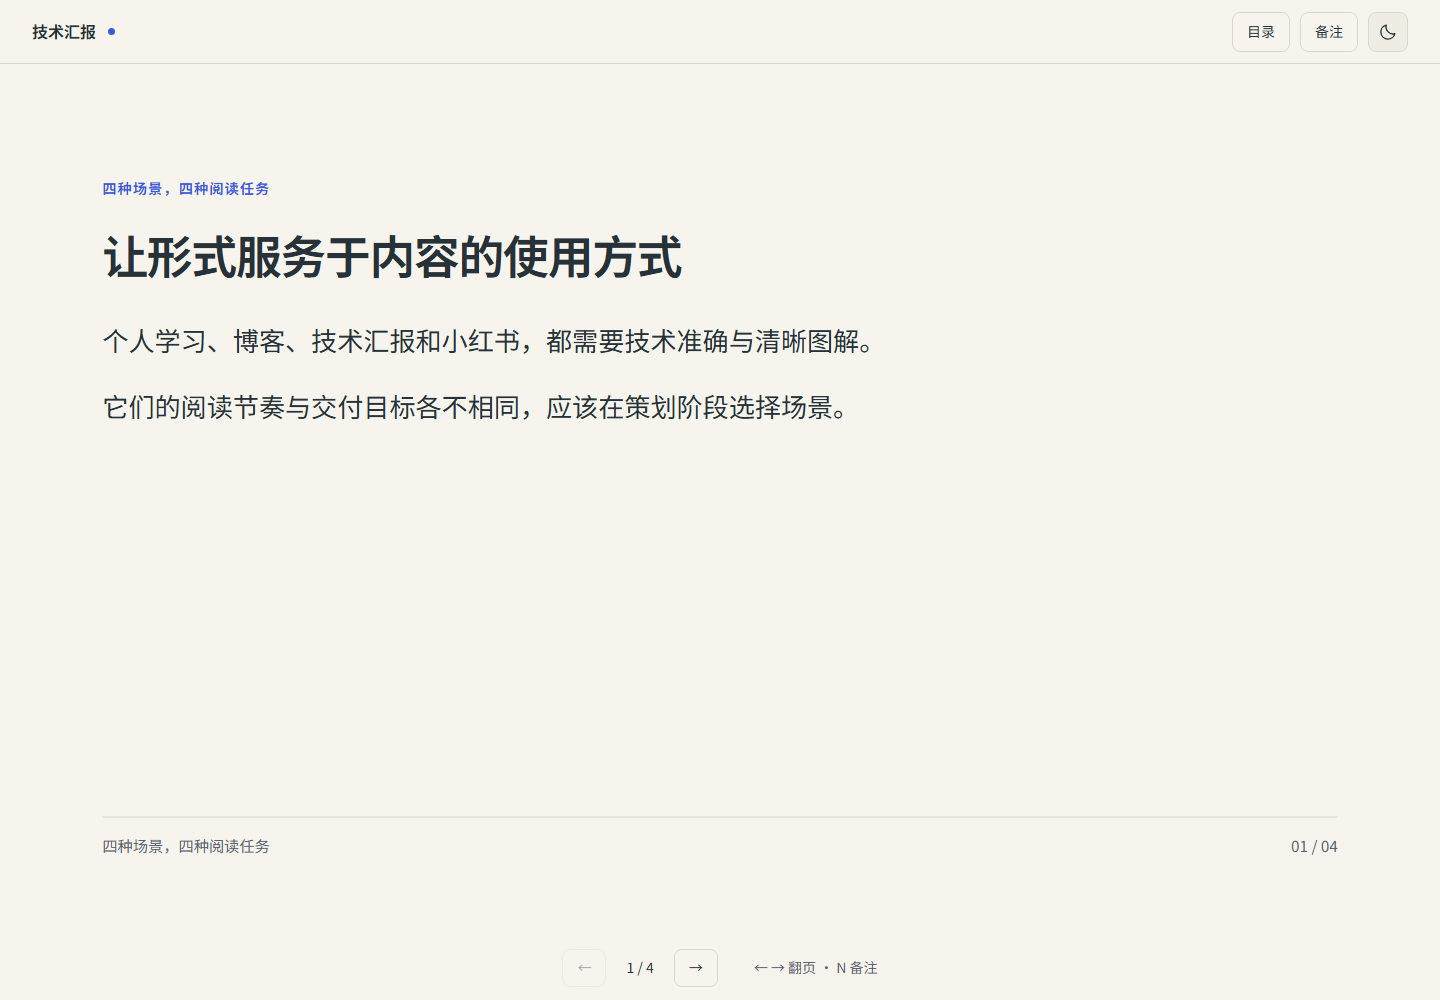
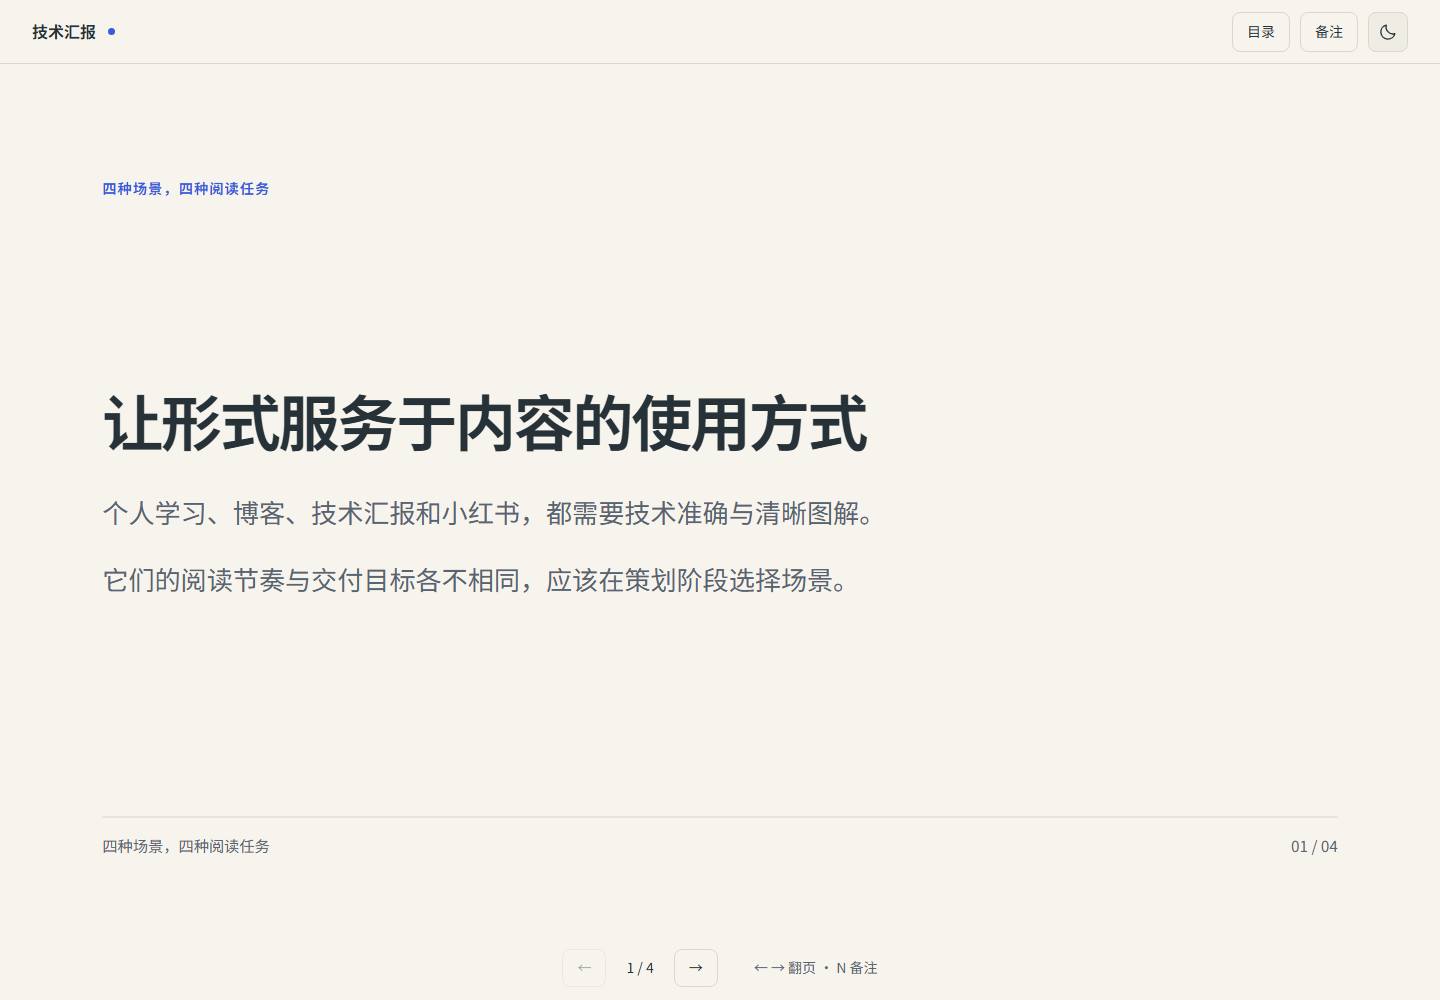
Give report covers a distinct optional visual hierarchy

diff --git a/assets/content/content.css b/assets/content/content.css
@@ -212,6 +212,9 @@ hr { border: 0; border-top: 1px solid var(--line); margin: 44px 0; }
 .slide-body h3 { font-size: 28px; margin: 24px 0 16px; }
 .slide-body h1, .slide-body h2 { font-weight: 650; }
 .slide-body h3 { font-weight: 600; }
+.slide-cover .slide-body { display: flex; flex-direction: column; justify-content: center; }
+.slide-cover .slide-body > :is(h1,h2) { font-size: 56px; line-height: 1.2; max-width: 16em; letter-spacing: -.035em; text-wrap: balance; }
+.slide-cover .slide-body > p { max-width: 38em; color: var(--muted); }
 .slide-body p { margin: 0 0 22px; }
 .slide-body li { margin-bottom: 12px; }
 .slide-body pre { margin: 22px 0; padding: 18px 22px; font-size: 20px; white-space: pre-wrap; overflow: visible; }

diff --git a/scripts/build_content.py b/scripts/build_content.py
@@ -129,7 +129,8 @@ def build_content(source, *, scene='learning', output, title=None, theme='light'
             for index, page in enumerate(pages, 1):
                 note = re.search(r'<!--\s*notes:\s*(.*?)-->', page, re.S | re.I)
                 page = re.sub(r'<!--\s*notes:.*?-->', '', page, flags=re.S | re.I)
-                slides.append(f'<section class="slide" data-export-page data-notes="{escape(note.group(1).strip() if note else "", quote=True)}" id="slide-{index}">'
+                classes = 'slide slide-cover' if index == 1 and metadata.get('cover') is True else 'slide'
+                slides.append(f'<section class="{classes}" data-export-page data-notes="{escape(note.group(1).strip() if note else "", quote=True)}" id="slide-{index}">'
                               f'<p class="eyebrow">{escape(title)}</p><div class="slide-body">{convert(page)}</div>'
                               f'<footer class="slide-footer"><span>{escape(title)}</span><span>{index:02d} / {len(pages):02d}</span></footer></section>')
             body = ''.join(slides)

diff --git a/.codex/html-goal-handoff.md b/.codex/html-goal-handoff.md
@@ -17,6 +17,7 @@
 - 已新编写`demos/content/softmax-longform/main.md`作为完整学习文档：7章、4表、2代码段、1流程图。标准库代码已执行；NumPy片段按官方API核对，未安装或运行NumPy。
 - Hyperball成品：`output/Hyperball-阅读版/index.html`。对应run为`output/_work/Hyperball-阅读版/20261002-232954-821907-blog-html/`，工作稿`work/Hyperball博客-图文版.md`。
 - Softmax成品：`output/Softmax-学习/index.html`。对应run为`output/_work/Softmax-学习/20261003-030343-927225-learning-html/`，工作稿`work/main.md`。
+- 流程汇报成品：`output/流程优化-汇报/index.html`。对应run是`output/_work/流程优化/20261002-review/final/report/`，不能由短交付名猜工作目录。其旧绝对路径已按重命名项目迁移，快照哈希核对一致。
 - 两篇技术内容与快照未被视觉迭代改写。各轮`delivery.md`及`work/iterations/`保存依据和对照；发布器保留上一版短路径交付。以run.json、QA哈希和当前Git为权威，不手改QA通过状态。
 
 ## 已有实现
@@ -28,6 +29,7 @@
 - 公式外部间距在长文中采用1.1em，随字号变化，内部高度及8px上下安全留白保留。两篇明暗正文42屏独立复核后，只采纳了有对照依据的公式节奏调整。
 - 短行内公式按整体换行，长表达式限定在容器宽度内并保留KaTeX断行。24px下真实短表达式已由两行变为一行，50项求和仍能多行重排；字号定位与根号可见性回归通过。
 - 图像弹窗保留原图注、已渲染公式与链接；克隆ID和引用去重，支持带引号URL引用；按宽高适合窗口，放大后可用方向键滚动，关闭恢复原位置/焦点。报告弹窗保留当前页。
+- 报告可显式设置`cover: true`，仅第一页使用56px大标题和居中的简短内容组；默认仍是正文页。四页明暗、缩小窗口、原生缩放、导航/备注/PNG与过量封面拒绝均已检查。
 - 本轮图注与窗口适配的依据位于两篇run的`work/iterations/20261003-viewer-captions/`。已复现原图注丢失、固定尺寸竖图900px被720px窗口裁切，并验证修正。
 
 ## 验证工具
@@ -40,4 +42,4 @@
 
 ## 继续方向
 
-两篇完整视觉复核与行内公式调整已完成。下一轮转到技术汇报模板的真实呈现，检查现有报告的标题页、正文图文密度和16:9视觉层级，保持场景边界，不机械套用长文布局。需要新会话时使用本页及现有run记录接续，不重做已验证的探索和基线。
+两篇长文与文本型报告已完成阶段性视觉复核。下一轮用实际技术主题的机制图、公式与比较页检验报告图文密度，必要图标签至少18px，并保留关键条件；当前流程报告主要是文字，不能据此推断所有图文页已经验证。需要新会话时使用本页及现有run记录接续，不重做已验证的探索和基线。

diff --git a/references/template-design.md b/references/template-design.md
@@ -34,4 +34,6 @@
 
 行内数学重排依据[KaTeX选项说明](https://katex.org/docs/options.html)：其默认允许在最外层关系或二元运算符后断行。本项目让短表达式整体随段落换行，较长表达式仍在受限宽度内重排，不改变渲染模式或数学记号。
 
+汇报的可选封面借鉴[Slidev的cover与default布局分工](https://sli.dev/builtin/layouts.html)：标题页强调主标题与上下文，正文页承载证据。本项目通过一个样式修饰类及显式`cover: true`选择，不安装Slidev、不自动将所有第一页视作封面。
+
 代码的文件名、重点行与复制操作参考[Nextra代码功能](https://nextra.site/docs/guide/syntax-highlighting)，长行可选换行借鉴[Elementor Code Highlight的Word Wrap](https://elementor.com/help/code-highlight-pro/)行为。只在出现水平溢出时提供换行入口，以控制工具栏密度；不引入相关框架或插件。

diff --git a/references/content-workflow.md b/references/content-workflow.md
@@ -51,6 +51,8 @@ python -X utf8 scripts/render_content.py "<run_dir>/work/index.html" --scene lea
 
 Markdown围栏外的独立 `---` 作为分页符，代码和公式保持完整；每页标题用 `#` 或 `##`。`<!-- notes: 备注正文 -->` 保存口头说明。复杂内容可写可信HTML片段，完整页面遵循以下结构：
 
+有独立标题页时，可在整篇front matter设置`cover: true`，仅让第一页采用较大标题和居中的简短内容组；未设置时第一页继续使用正文布局。封面同样检查510px正文安全区，长内容应调整或拆页。可信HTML可用`class="slide slide-cover"`明确选择该样式，不为每页增加独立模板。
+
 ```html
 <section class="slide" data-export-page data-notes="讲者备注">
   <p class="eyebrow">汇报主题</p>

diff --git a/demos/content/report.md b/demos/content/report.md
@@ -1,5 +1,6 @@
 ---
 title: 四种场景，四种阅读任务
+cover: true
 ---
 
 # 让形式服务于内容的使用方式
